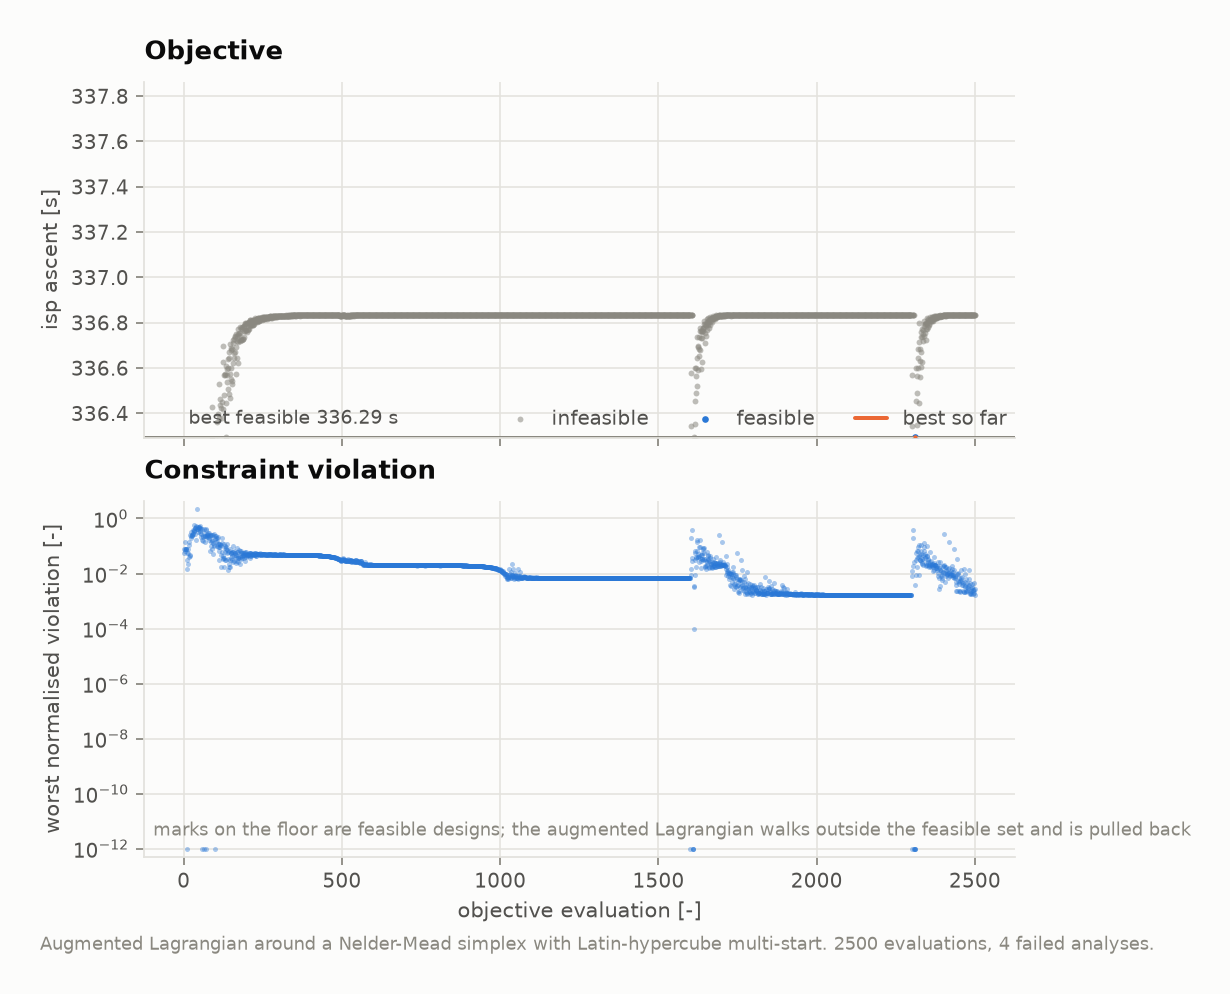
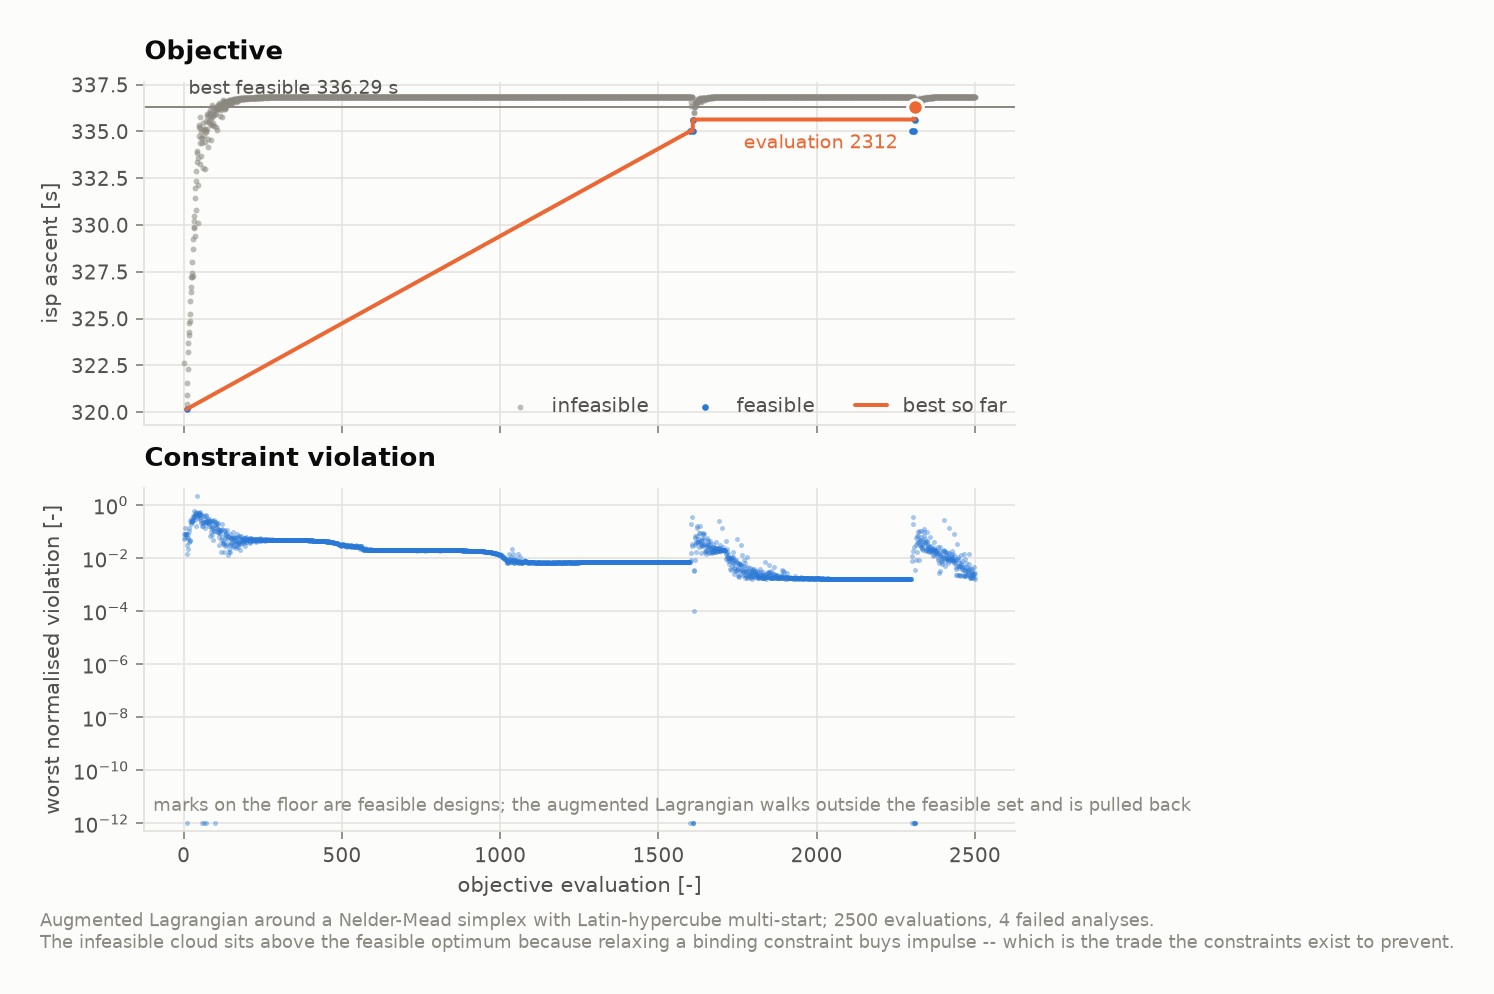
Keep the Debug CI job under ten minutes, and let the optimiser figure tell its story
The Debug job was taking 45 minutes, nearly all of it in four test cases.  At
-O0 the 2500-evaluation trade study and the 100k-step integrator comparison
dominate everything else, and re-running them in Debug learns nothing that the
two Release jobs have not already checked -- a Debug build is in CI to catch
assertions and undefined behaviour, not to redo arithmetic.

Those four now carry a [slow] tag.  Both Release jobs still run the full 78
cases through CTest; Debug runs `~[slow]`, which is 74 cases and 15 s in
Release, so Debug should land under ten minutes.  It is also the right command
for a quick local check, and docs/verification.md says so.

The optimisation convergence figure had stopped telling its story: framing the
y-axis on the 5th percentile of ALL evaluations cropped the feasible designs
and the best-so-far line straight off the bottom, because the augmented
Lagrangian spends its time just outside the feasible set and close to the
optimum.  It now frames on the feasible points and marks the winning
evaluation (2312), so the line visibly reaches the reported 336.29 s.  The
caption points out the thing worth noticing: the infeasible cloud sits ABOVE
the feasible optimum, because relaxing a binding constraint buys impulse.

Claude-Session: https://claude.ai/code/session_012BSwzG4M9VQGNcpXbT6J1g

diff --git a/python/ignis_viz/figures.py b/python/ignis_viz/figures.py
@@ -465,14 +465,37 @@ def optimization_convergence(history_csv: str, json_path: str, out: str) -> str:
     best = t.frame[feasible][objective].cummax()
     ax.plot(t["evaluation"][feasible], best, color=style.CATEGORICAL[1],
             label="best so far", linewidth=1.8, zorder=6)
+    # The winning evaluation is a single point among thousands and lands inside
+    # the densest part of the cloud; without a mark the reader cannot see that
+    # the best-so-far line actually reaches the reported optimum.
+    if feasible.any():
+        won = t.frame[feasible][objective].idxmax()
+        ax.plot([t.frame["evaluation"][won]], [t.frame[objective][won]], "o",
+                color=style.CATEGORICAL[1], markersize=7, zorder=7,
+                markeredgecolor=style.SURFACE, markeredgewidth=1.4)
+        style.annotate(ax, t.frame["evaluation"][won], t.frame[objective][won],
+                       f"evaluation {int(t.frame['evaluation'][won])}",
+                       dx=-8, dy=-12, ha="right", va="top",
+                       color=style.CATEGORICAL[1])
     ax.axhline(meta["objective"], color=style.INK_MUTED, linewidth=0.9)
     style.annotate(ax, t["evaluation"].min(), meta["objective"],
                    f"best feasible {meta['objective']:.2f} s", dx=2, dy=4)
     ax.set_ylabel(t.label(objective, objective.split(".")[-1].replace("_", " ")))
     ax.set_title("Objective")
     ax.legend(ncols=3, loc="lower right")
-    lo = np.nanpercentile(t.frame[objective][np.isfinite(t.frame[objective])], 5)
-    ax.set_ylim(bottom=lo)
+    # The augmented Lagrangian spends most of its evaluations just outside the
+    # feasible set and close to the optimum, so a percentile of ALL evaluations
+    # crops the feasible points and the best-so-far line straight off the axis.
+    # Frame on what the reader is here for instead: the feasible designs and the
+    # reported optimum.
+    finite = t.frame[objective][np.isfinite(t.frame[objective])]
+    interesting = t.frame[objective][feasible & np.isfinite(t.frame[objective])]
+    if len(interesting) == 0:
+        interesting = finite
+    lo = min(float(interesting.min()), float(meta["objective"]))
+    hi = max(float(np.nanpercentile(finite, 99)), float(meta["objective"]))
+    pad = max(0.05 * (hi - lo), 1e-9)
+    ax.set_ylim(lo - pad, hi + pad)
 
     ax = axes[1]
     # The violation jumps between feasible and infeasible on consecutive
@@ -491,8 +514,10 @@ def optimization_convergence(history_csv: str, json_path: str, out: str) -> str:
             transform=ax.transAxes, fontsize=8, color=style.INK_MUTED)
 
     style.caption(fig, "Augmented Lagrangian around a Nelder-Mead simplex with "
-                       f"Latin-hypercube multi-start. {meta['evaluations']} evaluations, "
-                       f"{meta['failed_evaluations']} failed analyses.")
+                       f"Latin-hypercube multi-start; {meta['evaluations']} evaluations, "
+                       f"{meta['failed_evaluations']} failed analyses.\nThe infeasible cloud sits "
+                       "above the feasible optimum because relaxing a binding constraint buys "
+                       "impulse -- which is the trade the constraints exist to prevent.")
     return _save(fig, out)
 
 

diff --git a/tests/unit/test_uncertainty.cpp b/tests/unit/test_uncertainty.cpp
@@ -101,7 +101,7 @@ TEST_CASE("a different seed gives a different sample, the same seed the same one
           b.statistics.at("performance.thrust").mean);
 }
 
-TEST_CASE("drawn inputs follow the requested distributions", "[uncertainty]") {
+TEST_CASE("drawn inputs follow the requested distributions", "[uncertainty][slow]") {
   const auto engine = cheapEngine();
   auto spec = cheapSpec(4000);
   spec.threads = 0;
@@ -150,7 +150,7 @@ TEST_CASE("drawn inputs follow the requested distributions", "[uncertainty]") {
   }
 }
 
-TEST_CASE("sensitivity rankings recover known dependencies", "[uncertainty][sensitivity]") {
+TEST_CASE("sensitivity rankings recover known dependencies", "[uncertainty][sensitivity][slow]") {
   const auto engine = cheapEngine();
   auto spec = cheapSpec(1500);
   // One campaign feeds every ranking check below; SECTIONs would re-run it.

diff --git a/tests/integration/test_engine.cpp b/tests/integration/test_engine.cpp
@@ -190,7 +190,8 @@ TEST_CASE("a sweep reproduces the single-point analysis exactly",
   }
 }
 
-TEST_CASE("constrained optimisation respects its constraints", "[integration][optimize]") {
+TEST_CASE("constrained optimisation respects its constraints",
+          "[integration][optimize][slow]") {
   auto cfg = EngineConfig::load(configDir() + "/optimization.yaml");
   cfg.sample_profile = false;
   const SteadyEngine engine(cfg);

diff --git a/tests/unit/test_transient.cpp b/tests/unit/test_transient.cpp
@@ -226,7 +226,7 @@ TEST_CASE("the fixed-step integrator converges at high order on a smooth problem
 }
 
 TEST_CASE("the adaptive integrator agrees with the fixed-step one",
-          "[transient][verification]") {
+          "[transient][verification][slow]") {
   auto fixed = baseSpec();
   fixed.integrator = "rk4";
   fixed.dt = 1.0e-6;

diff --git a/docs/verification.md b/docs/verification.md
@@ -332,3 +332,12 @@ the entire argument for running your own instructions against a fresh clone.
 | `tests/validation/test_validation.cpp` | 5 | NASA CEA and Cantera comparisons — see [`validation.md`](validation.md) |
 | `tests/integration/test_engine.cpp` | 6 | Both engines end to end, altitude trends, sweep/single-point identity, optimisation feasibility, feed system |
 | **Total** | **78** | **17 550 assertions, 60 s at `-j4`** |
+
+Four cases carry a `[slow]` tag — the constrained trade study, the adaptive
+integrator comparison, the distribution check and the sensitivity ranking.
+Between them they are most of the suite's serial time. Both Release CI jobs
+run everything; the Debug job runs `~[slow]`, because a Debug build is there
+to catch assertions and undefined behaviour that Release optimises away, and
+re-running a 2500-evaluation optimisation at `-O0` costs most of an hour to
+learn nothing new. `./build/bin/ignis_tests "~[slow]"` is also the right
+command for a quick local check: 74 cases in 15 s.
